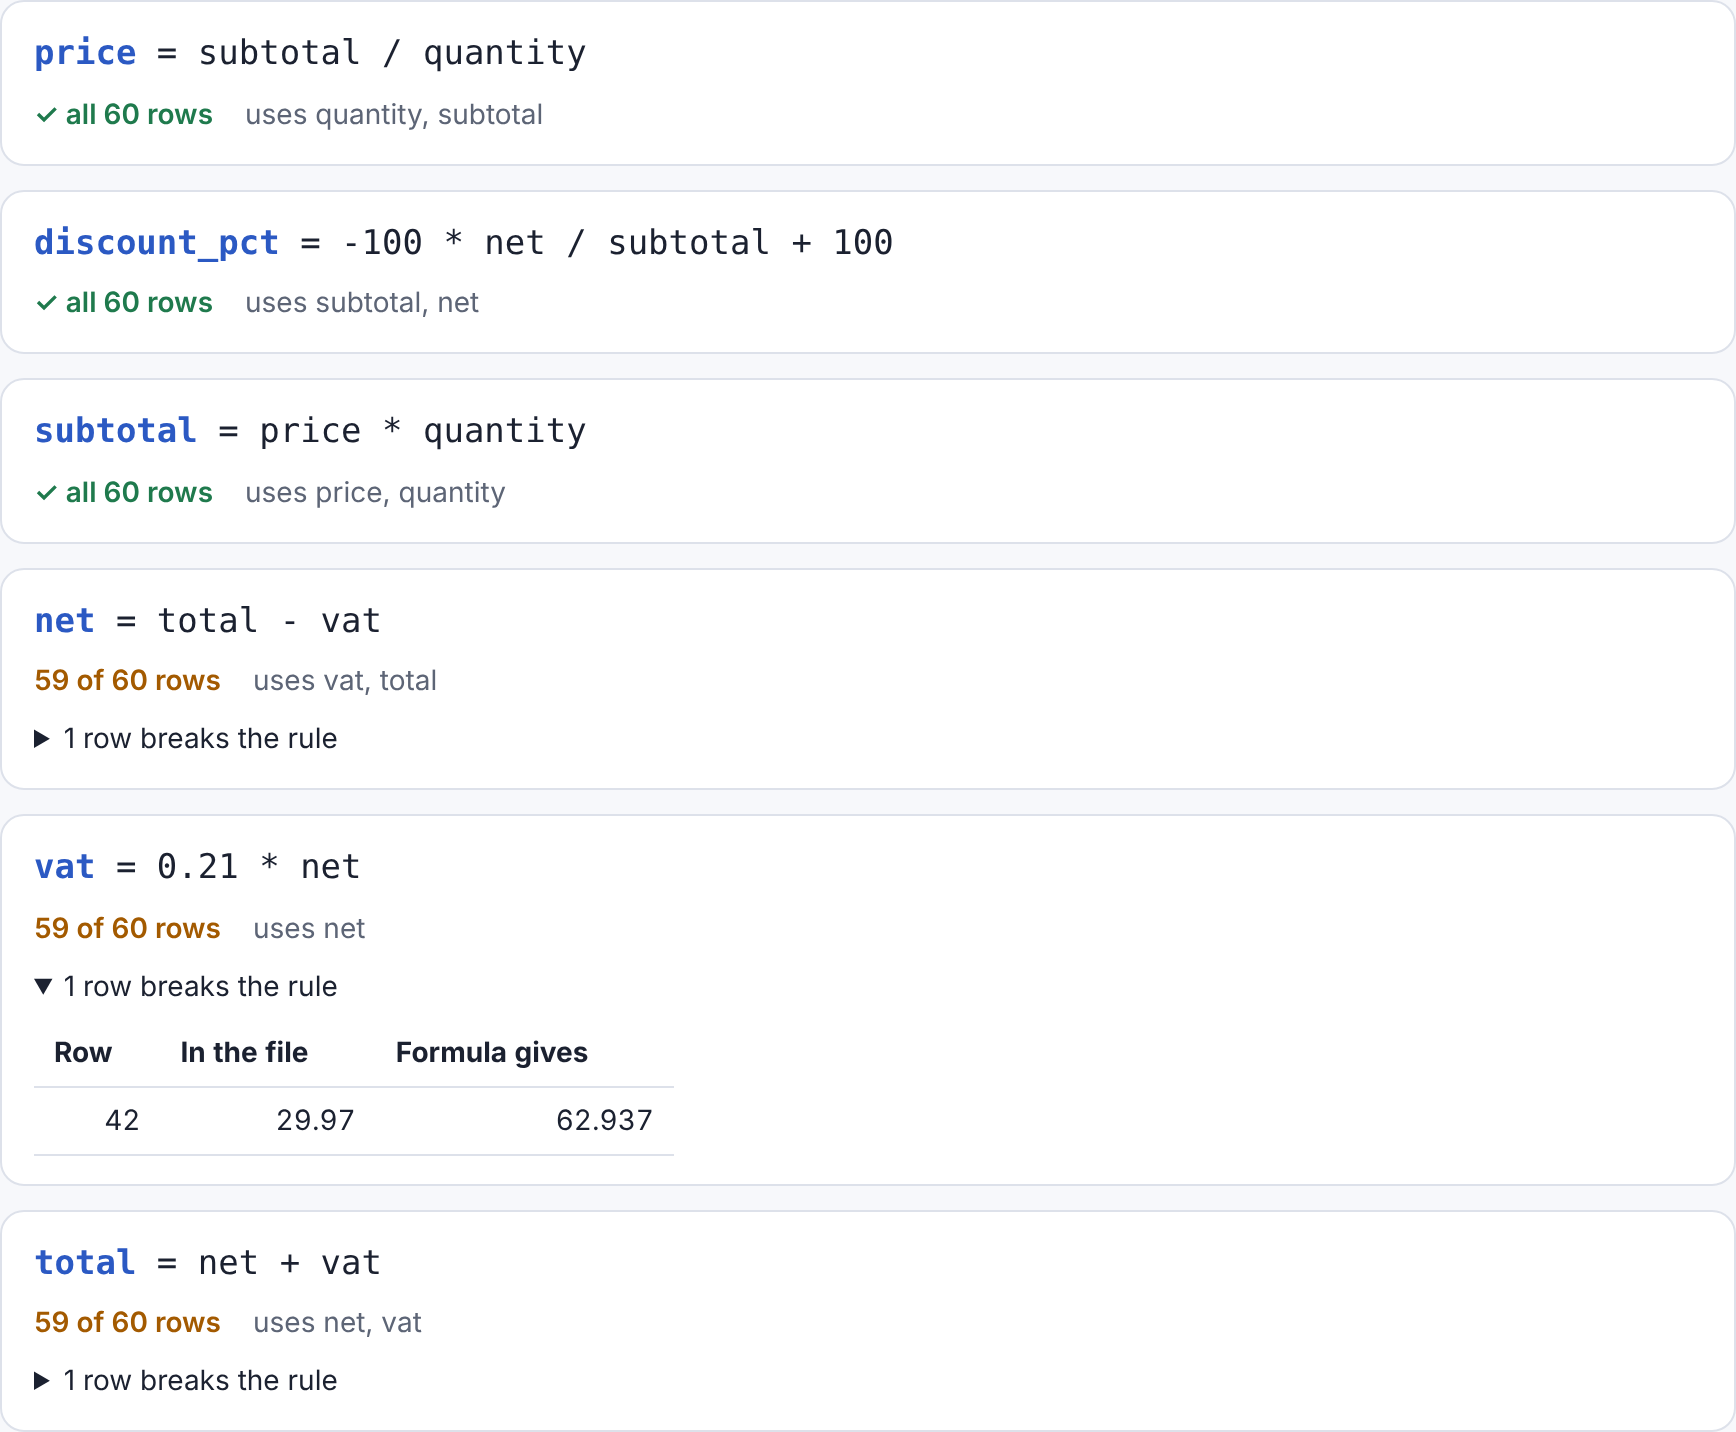
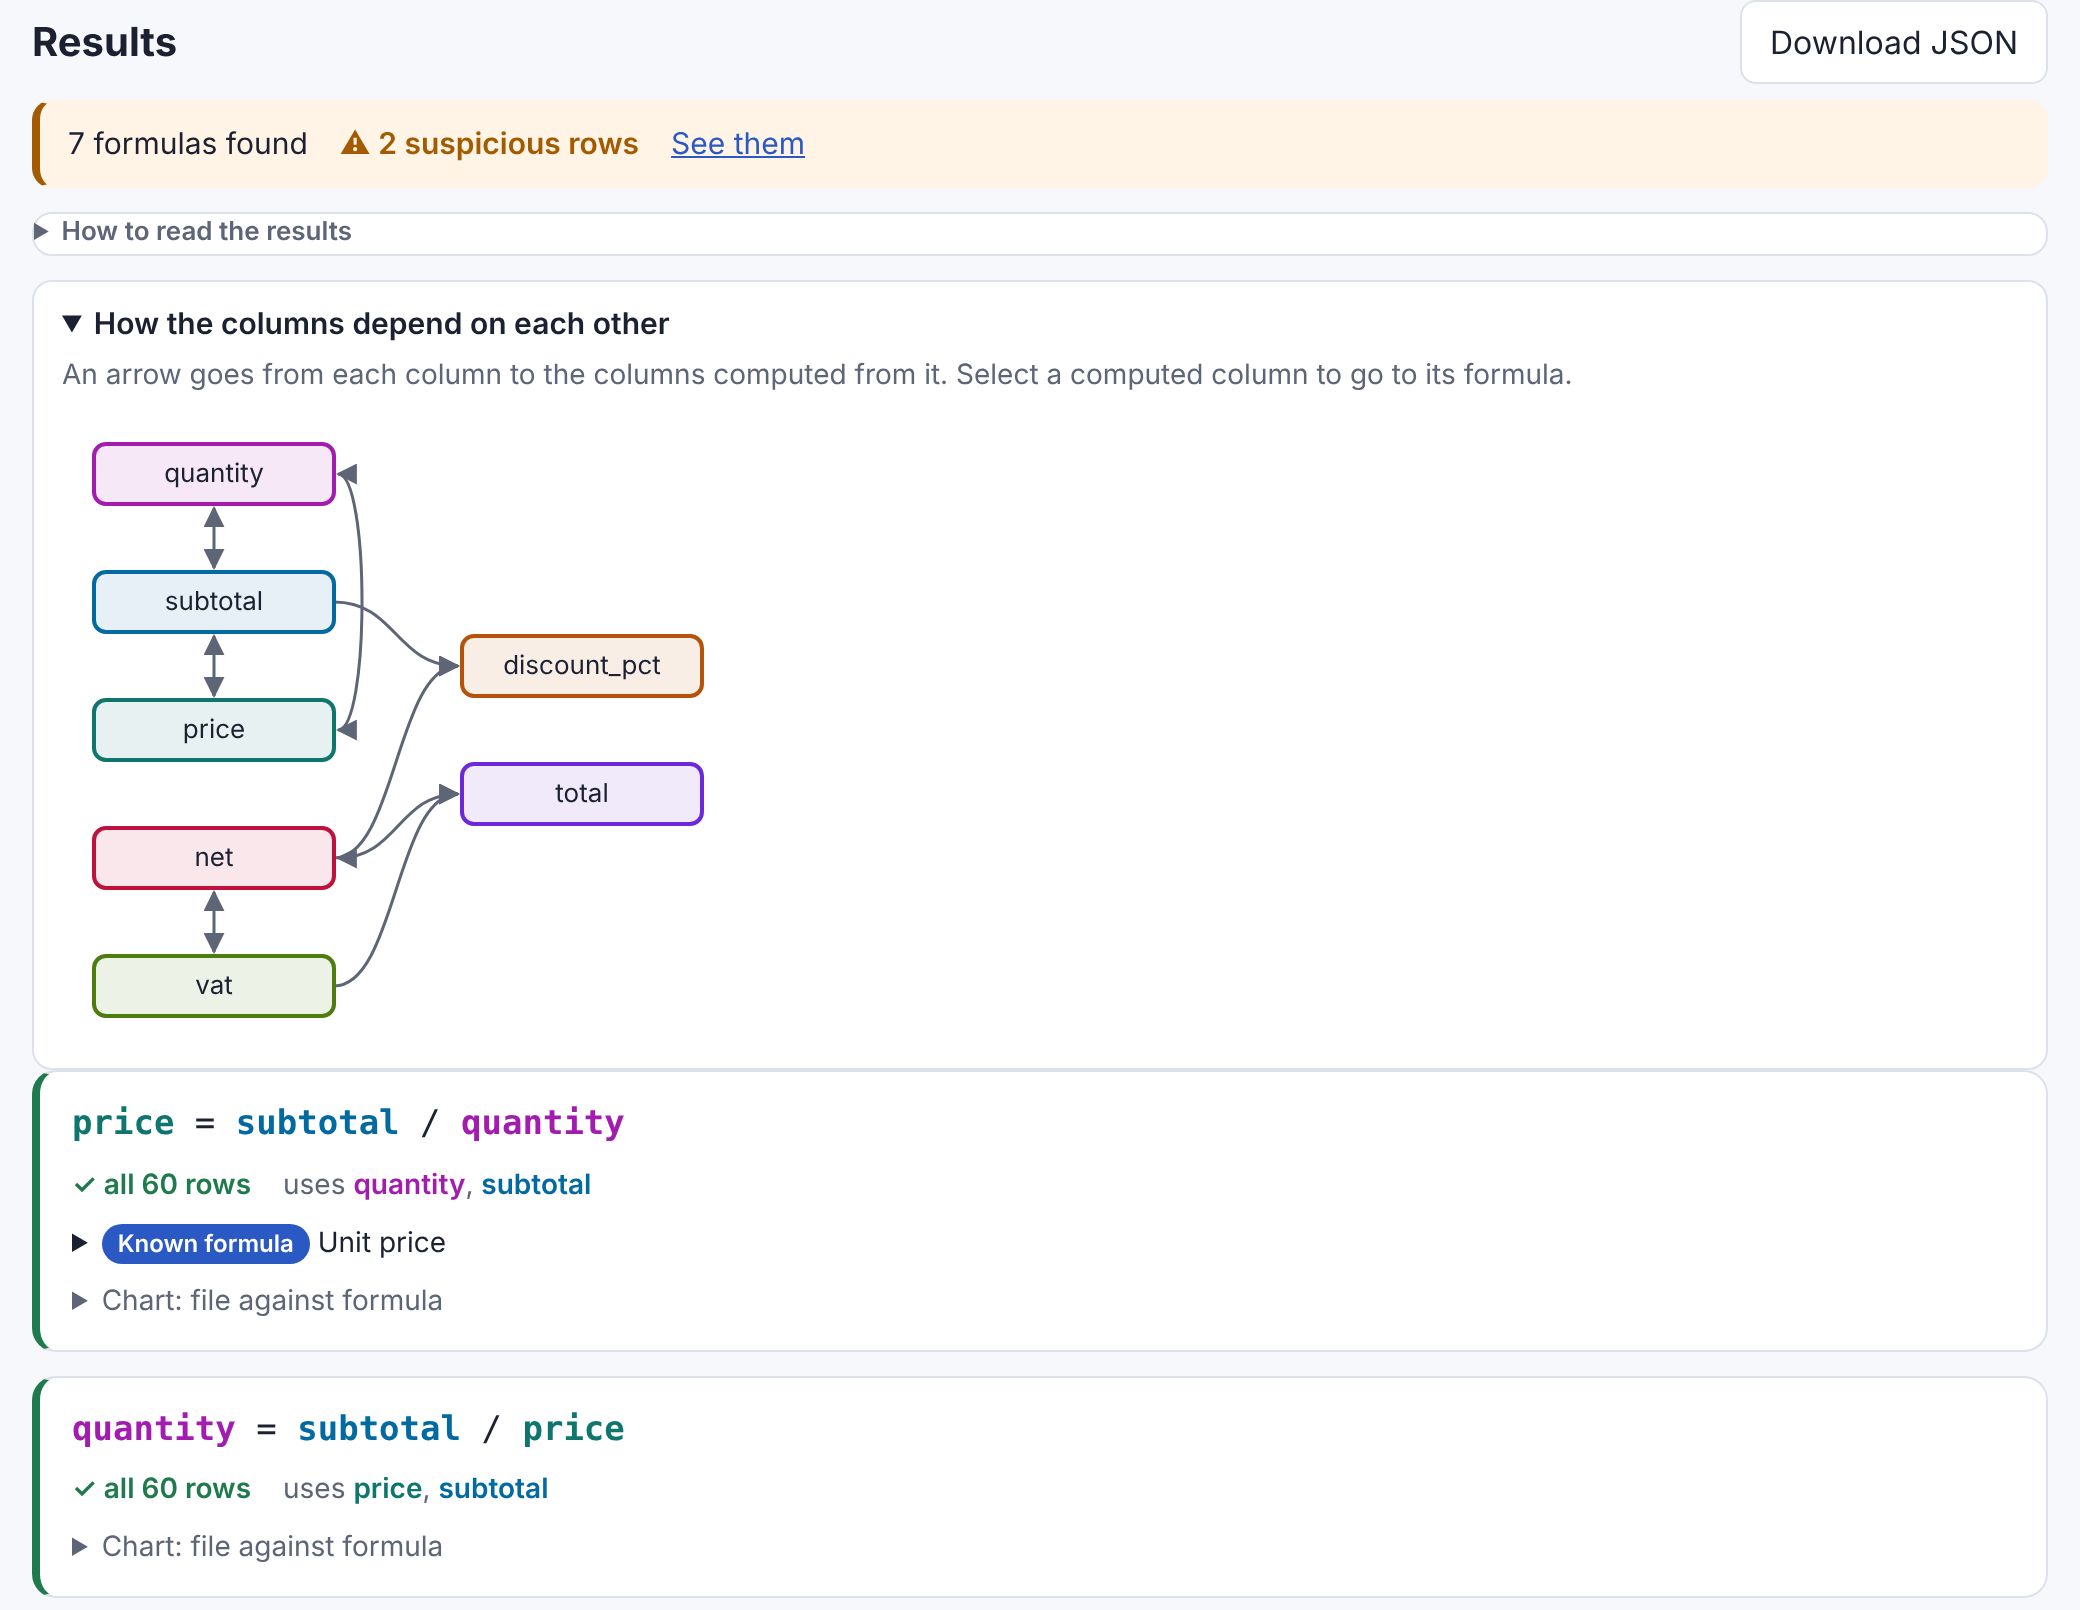
Prepare 0.2.0: README and roadmap describe what ships, version bump

diff --git a/README.md b/README.md
@@ -1,6 +1,8 @@
 # Regrex
 
 [![CI](https://github.com/dabupr/regrex/actions/workflows/ci.yml/badge.svg)](https://github.com/dabupr/regrex/actions/workflows/ci.yml)
+[![PyPI](https://img.shields.io/pypi/v/pyregrex.svg)](https://pypi.org/project/pyregrex/)
+[![crates.io](https://img.shields.io/crates/v/regrex-cli.svg)](https://crates.io/crates/regrex-cli)
 [![License: MIT](https://img.shields.io/badge/license-MIT-blue.svg)](LICENSE)
 
 **Find the formula behind your data.** Regrex is an open-source symbolic regression engine written in Rust that runs in your browser (WebAssembly, no server), in Python and as a tool for AI agents.
@@ -9,21 +11,31 @@
 
 ![Regrex finding the formulas of an invoices spreadsheet](docs/images/web-results.png)
 
-> Status: early development. The engine is being built in the open; see the [roadmap](docs/ROADMAP.md).
+## Install
 
-## What it will do
+```sh
+pip install pyregrex          # Python package (import regrex)
+cargo install regrex-cli      # the regrex command line tool
+```
+
+Prebuilt `regrex` binaries for Linux, macOS and Windows are attached to each [GitHub release](https://github.com/dabupr/regrex/releases). The web app needs no install.
+
+> Regrex is before 1.0: new versions may still change the API. See the [roadmap](docs/ROADMAP.md) and the [changelog](CHANGELOG.md).
+
+## What it does
 
 - **Scan a dataset**: upload a CSV or Excel file and Regrex tells you which columns are computed from others, and with which formula (for example `Total = Price × Quantity × 1.21`), plus the rows that do not follow it.
 - **Ranked candidate formulas**: ordered by error and complexity, with a prior that depends on the domain (physics, maths, signals, computing, finance).
+- **Any table, not just formulas between columns**: it works out what each column is for (groups, order, categories, codes), finds formulas that change with a text column (one per curve type, a VAT rate per country), formulas between consecutive rows (a running total, a chainage), numbers hidden in text, relations between text columns and relations between two files.
 - **Units and dimensional analysis** to prune impossible formulas.
 - **"Known formula" badge** when a candidate matches an established formula (kinetic energy, Ohm's law, VAT, compound interest…). Browse the [library of known formulas](https://dabupr.github.io/regrex/library.html).
 - **Error diagnosis per row**: given the correct formula, explain what each wrong result did (forgot a square, used g = 10, swapped two parameters, cm vs m).
-- **Built for AI**: MCP server and stable JSON output. The AI proposes, the engine verifies.
+- **Built for AI**: MCP server, stable JSON output and a compact report for agents to judge the results. No AI inside: the same file always gives the same answer. The AI proposes, the engine verifies.
 - **Private by design**: in the browser, your data never leaves your computer.
 
 ## Web app
 
-Open [dabupr.github.io/regrex](https://dabupr.github.io/regrex/), drop a CSV, Excel or JSON file, or paste cells copied from a spreadsheet (or try the example), untick ID columns and press **Find derived columns**. Rows that break a formula are listed at the top with the cell to fix highlighted, and can be exported as CSV. The engine is the same Rust code as the command line, compiled to WebAssembly and run in a background thread, so files are never uploaded anywhere.
+Open [dabupr.github.io/regrex](https://dabupr.github.io/regrex/), drop a CSV, Excel or JSON file, or paste cells copied from a spreadsheet (or try the example), untick ID columns and press **Find derived columns**. Each formula appears as soon as it is found, and every column shows whether it is found, being searched or still to do; on large files a quick look at a sample comes first, then each formula is checked on all rows. Each column keeps its own colour in the formulas, the tables and the dependency graph. Rows that break a formula are listed with the cell to fix highlighted, and can be exported as CSV. A second file can be added to find relations between the two, and every search setting is explained where it is set. The engine is the same Rust code as the command line, compiled to WebAssembly and run in a background thread, so files are never uploaded anywhere.
 
 ## Command line
 
@@ -32,13 +44,19 @@ Find the columns of a spreadsheet that are computed from other columns, and the 
 ```console
 $ regrex scan examples/data/invoices.csv --ignore invoice
 examples/data/invoices.csv: 60 rows, 7 numeric columns
-Skipped (not numeric): product
+Text read as categories: product
+Regimes: product, quantity, discount_pct.
 
   price        = subtotal / quantity          60/60 rows
+                 known formula: Unit price
+  quantity     = subtotal / price             60/60 rows
   discount_pct = 100 - 100 * net / subtotal   60/60 rows
+                 known formula: Speed improvement in percent
   subtotal     = price * quantity             60/60 rows
+                 known formula: Line total (price × quantity)
   net          = total - vat                  59/60 rows   exception: row 17 is 73.8, formula gives 78.8 (the total in this row looks wrong, it breaks its own formula too)
   vat          = 0.21 * net                   59/60 rows   exception: row 42 is 29.97, formula gives 62.937 (used 0.1 instead of 0.21)
+                 known formula: Tax amount with t = 0.21
   total        = net + vat                    59/60 rows   exception: row 17 is 94.3, formula gives 89.3
 ```
 
@@ -57,7 +75,7 @@ Skipped (not numeric): product
 - Formulas that hold on many rows but not enough to be reported, or only where another column has some values, are listed apart under "Almost" (`near_misses` in the JSON): they often show that a column follows different rules in different groups of rows.
 - `regrex fit data.csv --target y` lists candidate formulas for a single column.
 
-Install from source with `cargo install --path crates/regrex-cli`. From the first release on, prebuilt binaries are attached to each [GitHub release](https://github.com/dabupr/regrex/releases) and `cargo install regrex-cli` works too.
+Install with `cargo install regrex-cli`, download a binary from the [releases](https://github.com/dabupr/regrex/releases), or build from source with `cargo install --path crates/regrex-cli`.
 
 ## Python
 
@@ -72,7 +90,7 @@ best = regrex.search({"m": m, "v": v}, energy)[0]   # also takes pandas DataFram
 print(best["formula"])                                # 0.5 * m * v^2
 ```
 
-Install from source with `pip install ./crates/regrex-py` (needs a Rust toolchain); from the first release on, `pip install pyregrex`. See the [Python README](crates/regrex-py/README.md).
+Install with `pip install pyregrex` (wheels for Linux, macOS and Windows, Python 3.9 and later), or from source with `pip install ./crates/regrex-py` (needs a Rust toolchain). See the [Python README](crates/regrex-py/README.md).
 
 ## AI assistants (MCP)
 
@@ -86,7 +104,7 @@ See [docs/mcp.md](docs/mcp.md) for other clients and the list of tools, and [doc
 
 ## Rust library
 
-The engine can already rediscover formulas from data (Rust library, phase 1 of the roadmap):
+The engine is a Rust library (`regrex-core` on crates.io; `regrex-io` reads files and writes reports):
 
 ```rust
 use regrex_core::{search, SearchConfig};

diff --git a/docs/ROADMAP.md b/docs/ROADMAP.md
@@ -8,30 +8,31 @@ Regrex is built in the open, one small phase at a time. Each phase ends with som
 | 1 ✅ | Minimal core | Exhaustive search of short formulas, constant fitting, error + complexity score |
 | 2 ✅ | Dataset scan (main use case) | `regrex scan data.csv` finds derived columns and rows that break the formula |
 | 3 ✅ | Browser app | WASM in a Web Worker, CSV/Excel import, column roles and units, GitHub Pages demo |
-| 4 | Domains and units | Dimensional pruning, domain constants and priors, "known formula" badge (e-graphs) |
+| 4 ✅ | Domains and units | Dimensional pruning, domain constants and priors, "known formula" badge with a library of 1,073 formulas |
 | 5 ✅ | Python and AI | PyPI package (PyO3), MCP server, stable JSON schema, `llms.txt` |
 | 6 ✅ | Error diagnosis | Typical mutations of the correct formula explain each wrong row |
-| 7 | Performance | SIMD, multithreading, public benchmarks vs PySR, gplearn, AI Feynman (SRBench) |
+| 7 (part) | Performance | Done: multithreaded scan, web worker pool, scan benchmark in CI. Still to do: SIMD and the comparison with PySR and gplearn (0.4 and 1.0 below) |
 | 8 ✅ | First release | 0.1.0 on crates.io and PyPI (`pyregrex`), binaries on GitHub |
+| 9 ✅ | Real tables | 0.2.0: column roles, formulas per type and between rows, numbers in text, text relations, two files joined, near misses, agent report, quick scan, Parquet/Arrow/SQLite/JSON input, live web results |
 
 ## Road to 1.0.0
 
-After 0.1.0 the work goes in three steps: much smarter first, then much faster, then stable. Issue [#81](https://github.com/dabupr/regrex/issues/81) tracks it, and the labels `roadmap: 0.3 smart`, `roadmap: 0.4 fast` and `roadmap: 1.0 stable` group the issues.
+After 0.2.0 the work goes in three steps: much smarter first, then much faster, then stable. Issue [#81](https://github.com/dabupr/regrex/issues/81) tracks it, and the labels `roadmap: 0.3 smart`, `roadmap: 0.4 fast` and `roadmap: 1.0 stable` group the issues.
 
 | Release | Goal | Main work |
 |---|---|---|
-| 0.3 "smart" | Find longer formulas, survive noise, report nothing false | Benchmark in CI, held-out validation, one line per relation, sums of terms by sparse regression, separability, known constants (4π), Buckingham π, robust fitting, confidence, formulas per category |
-| 0.4 "fast" | 5–8× faster scans, usable in the browser on wide files | Bytecode evaluation on reused buffers, enumerate once per file, reuse subexpression values and reject early, WASM SIMD, live results in the web app |
+| 0.3 "smart" | Report nothing false, every relation once, ready for agents | Held-out validation, one line per relation, known-formula badges that make sense, `--with`/`--quick`/structure in MCP and Python, confidence, robust fitting, sums of terms by sparse regression, known constants (4π), matching two files on the nearest point |
+| 0.4 "fast" | 5–8× faster scans, usable in the browser on wide files | Bytecode evaluation on reused buffers, enumerate once per file, reuse subexpression values and reject early, WASM SIMD |
 | 1.0 "stable" | Something people can depend on | Frozen API under semver, full Feynman benchmark against PySR and gplearn, Python parity with pandas/polars and a scikit-learn estimator, npm package, fuzzing, user guide |
 
 1.0.0 ships when these hold:
 
-| Measure | 2026-11-09 | 1.0.0 |
-|---|---|---|
-| AI Feynman files in the example datasets | 8 of 12 | 12 of 12 |
-| Full Feynman set (100 equations, SRBench) | not measured | ≥ 75 % clean, ≥ 60 % at 1 % noise |
-| False positives on classic ML datasets | 1 | 0 |
-| Wide real export (~550 columns), CLI on 4 cores | ~155 s | < 20 s |
-| Same file in the browser | ~377 s | < 60 s |
+| Measure | 2026-11-09 | 2026-11-27 | 1.0.0 |
+|---|---|---|---|
+| Scan benchmark relations (Feynman files, planted tables, track table) | 14 of 19 | 23 of 27 | all |
+| Full Feynman set (100 equations, SRBench) | not measured | not measured | ≥ 75 % clean, ≥ 60 % at 1 % noise |
+| False positives on classic ML datasets | 2 | 2 | 0 |
+| Wide real export (~550 columns), CLI on 4 cores | ~155 s | not measured | < 20 s |
+| Same file in the browser | ~377 s | not measured | < 60 s |
 
 Principles: one Rust core everywhere; data never leaves the user's machine in the browser; the AI proposes and the engine verifies; every candidate comes with a score and a reason.

diff --git a/docs/json-output.md b/docs/json-output.md
@@ -1,6 +1,6 @@
 # JSON output
 
-`regrex scan --json`, `regrex fit --json`, the Python package and the MCP server all return the same JSON. Every report has a `schema_version`; it is `1` today. Within a version, fields may be added but existing fields keep their name and meaning, so programs can rely on them.
+`regrex scan --json`, `regrex fit --json`, the Python package and the MCP server all return the same JSON. Every report has a `schema_version`; it is `1` today. Within a version, fields may be added but existing fields keep their name and meaning, so programs can rely on them. Version 1 is the same in 0.1.0 and 0.2.0: 0.2.0 only adds fields (`structure`, `category_columns`, `converted_columns`, `derived[].regime`, `between_rows`, `within`, `copy_of`, `text_relations`, `near_misses`, `not_found`, `quick`).
 
 Rows are counted from 1, starting at the first row after the header, as a spreadsheet user would count data rows. Numbers that are not finite are written as `null`.
 

diff --git a/CHANGELOG.md b/CHANGELOG.md
@@ -7,6 +7,8 @@ and this project adheres to [Semantic Versioning](https://semver.org/spec/v2.0.0
 
 ## [Unreleased]
 
+## [0.2.0] - 2026-11-28
+
 ### Added
 
 - The scan works out what each column is for, without AI: group keys (line, track), the column that orders the rows (a chainage, a time), text columns read as categories (types, names, codes), identifiers and measurements, shown in the text report and in `structure` in the JSON report (`regrex_core::profile`). Text columns are no longer skipped: their values can decide which formula applies ([#98](https://github.com/dabupr/regrex/issues/98)).
